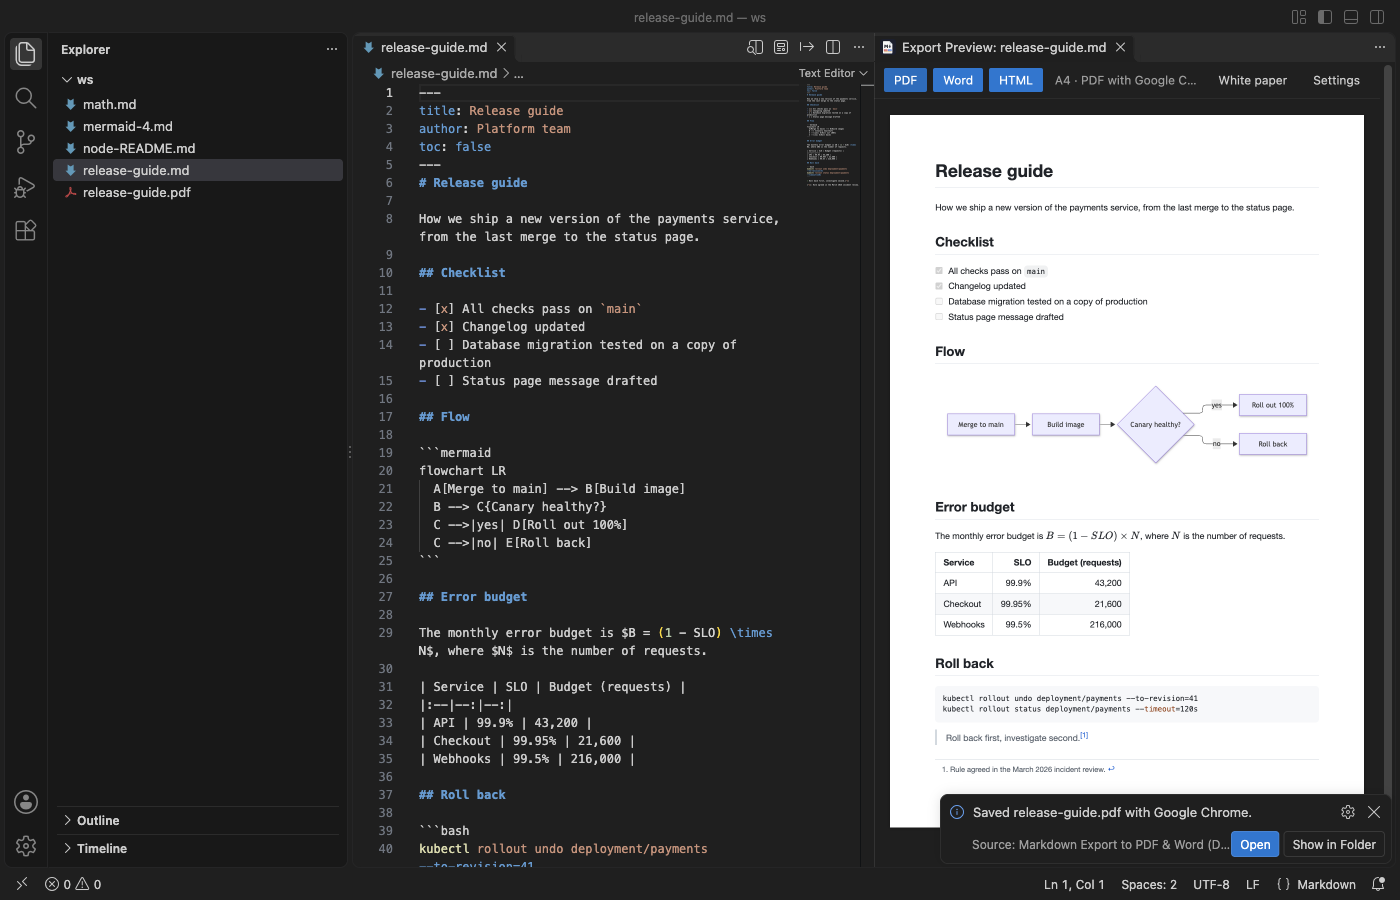
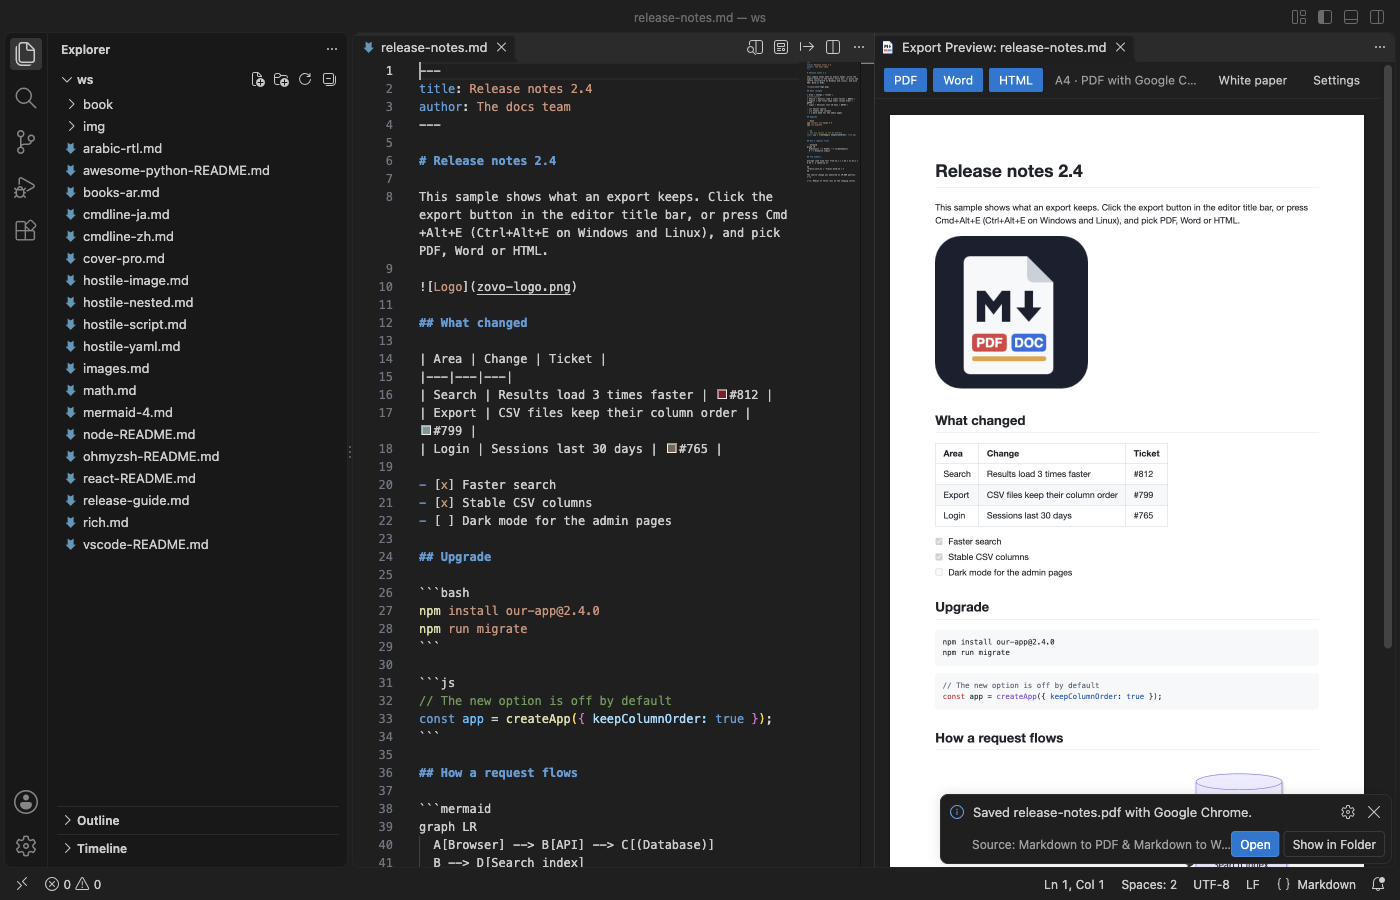
Walkthrough sample opens as a plain file (globalStorageUri may be vscode-userdata), README screenshots from the real VS Code gate, folder pick image

diff --git a/test/support/vscode-stub.js b/test/support/vscode-stub.js
@@ -10,7 +10,7 @@ const Module = require('module');
 const ROOT = path.join(__dirname, '..', '..');
 const PKG = JSON.parse(fs.readFileSync(path.join(ROOT, 'package.json'), 'utf8'));
 
-function create({ workspace } = {}) {
+function create({ workspace, storageScheme = 'file' } = {}) {
   const log = { info: [], warn: [], error: [], status: [], opened: [], external: [], commands: [], progress: [], quick: [] };
   const ui = { open: [], save: [], input: [], quick: [], info: [], warn: [] };
   const commands = new Map();
@@ -77,7 +77,7 @@ function create({ workspace } = {}) {
       showInformationMessage: msg('info'), showWarningMessage: msg('warn'), showErrorMessage: msg('error'),
       setStatusBarMessage: (t) => { log.status.push(t); return { dispose() {} }; },
       showOpenDialog: async () => nextOf(ui.open, undefined),
-      showSaveDialog: async () => nextOf(ui.save, undefined),
+      showSaveDialog: async () => { log.saveDialogs = (log.saveDialogs || 0) + 1; return nextOf(ui.save, undefined); },
       showInputBox: async () => nextOf(ui.input, undefined),
       showQuickPick: async (items, opts) => { const list = await items; log.quick.push({ items: list, opts }); const f = nextOf(ui.quick, undefined); return typeof f === 'function' ? f(list) : f; },
       showTextDocument: async (d) => { log.opened.push(d); return {}; },
@@ -100,7 +100,7 @@ function create({ workspace } = {}) {
     extensionUri: Uri.file(ROOT),
     extensionPath: ROOT,
     extension: { id: 'zovo.zovo-markdown-export', packageJSON: PKG },
-    globalStorageUri: Uri.file(gs),
+    globalStorageUri: storageScheme === 'file' ? Uri.file(gs) : new Uri(storageScheme, gs),
     globalState: { get: (k, d) => (state.has(k) ? state.get(k) : d), update: async (k, v) => { state.set(k, v); }, keys: () => [...state.keys()], setKeysForSync() {} },
     workspaceState: { get: (k, d) => d, update: async () => {} },
     secrets: { get: async (k) => secrets.get(k), store: async (k, v) => { secrets.set(k, v); }, delete: async (k) => { secrets.delete(k); }, onDidChange: noop },

diff --git a/src/extension.js b/src/extension.js
@@ -492,13 +492,11 @@ function showPreview(arg) {
 // The bundled sample is copied to the extension's own storage folder, so exports land next to it there and never in
 // the extension folder. Exports of this copy do not count for the rating ask (rate.js skips globalStorageUri).
 async function openSample() {
-  const srcDir = vscode.Uri.joinPath(ctx.extensionUri, 'walkthrough', 'sample');
-  const dst = vscode.Uri.joinPath(ctx.globalStorageUri, 'sample');
-  await vscode.workspace.fs.createDirectory(dst);
-  for (const name of ['release-notes.md', 'zovo-logo.png']) {
-    await vscode.workspace.fs.copy(vscode.Uri.joinPath(srcDir, name), vscode.Uri.joinPath(dst, name), { overwrite: true });
-  }
-  const doc = await vscode.workspace.openTextDocument(vscode.Uri.joinPath(dst, 'release-notes.md'));
+  // globalStorageUri can use the vscode-userdata scheme; exports need a plain file path, so use its path on disk.
+  const dst = path.join(ctx.globalStorageUri.fsPath, 'sample');
+  fs.mkdirSync(dst, { recursive: true });
+  for (const name of ['release-notes.md', 'zovo-logo.png']) fs.copyFileSync(path.join(ctx.extensionPath, 'walkthrough', 'sample', name), path.join(dst, name));
+  const doc = await vscode.workspace.openTextDocument(vscode.Uri.file(path.join(dst, 'release-notes.md')));
   await vscode.window.showTextDocument(doc, { preview: false });
 }
 

diff --git a/test/pro-flow.test.js b/test/pro-flow.test.js
@@ -193,3 +193,19 @@ test('walkthrough sample: copied to the extension storage and opened; exports la
     assert.equal(s.log.error.length, 0);
   } finally { s.restore(); }
 });
+
+test('walkthrough sample with a vscode-userdata storage URI: opened as a plain file, so exports need no save dialog', async () => {
+  const { loadExtension: load } = require('./support/vscode-stub');
+  const s = load({ workspace: ws, storageScheme: 'vscode-userdata' });
+  s.config.askForRating = false; s.config.pdfEngine = 'builtin';
+  s.ext.activate(s.context);
+  try {
+    await cmd(s, 'openSample');
+    const doc = s.log.opened[0];
+    assert.equal(doc.uri.scheme, 'file');
+    s.vscode.window.activeTextEditor = { document: doc, selection: { isEmpty: true } };
+    await cmd(s, 'exportPdf');
+    assert.ok(fs.existsSync(path.join(s.gs, 'sample', 'release-notes.pdf')));
+    assert.equal(s.log.saveDialogs, undefined, 'no save dialog');
+  } finally { s.restore(); }
+});

diff --git a/README.md b/README.md
@@ -2,7 +2,7 @@
 
 Markdown to PDF, Markdown to Word (.docx) and Markdown to HTML, right in VS Code. PDFs are printed by the Chrome, Edge or Brave already on your computer, so there is nothing to download. Free, no sign-in, works offline.
 
-![A release guide open in VS Code with the Export Preview beside it and the message "Saved release-guide.pdf with Google Chrome."](images/hero.png)
+![The walkthrough sample open in VS Code with the Export Preview beside it and the message "Saved release-notes.pdf with Google Chrome."](images/hero.png)
 
 - Nothing to download. No Chromium, no setup. Without a browser, a built-in engine still makes the PDF.
 - Word that behaves like Word. Headings use Word's own Heading 1 to 6 styles, so the Navigation pane and Word's table of contents work. Real numbered lists, tables, footnotes and code with colours.
@@ -14,6 +14,8 @@ Markdown to PDF, Markdown to Word (.docx) and Markdown to HTML, right in VS Code
 Open a Markdown file and click the export button in the editor title bar, or press `Cmd+Alt+E` (macOS) or `Ctrl+Alt+E`. Pick PDF, Word (DOCX), HTML or all three. The file is saved next to the Markdown file.
 
 You can also right-click a Markdown file in the Explorer (Markdown Export menu), select several files, right-click a folder (Export Every Markdown File in a Folder), or select text and choose Export Selection. From the Command Palette, the folder export lists your workspace folders and every folder that holds Markdown files, so you do not have to browse for it.
+
+![The folder list of Merge a Folder into One PDF: the workspace folder, a book folder with 3 Markdown files, and Choose another folder](images/folder-pick.png)
 
 New to it? Get Started (in the Command Palette: Markdown Export: Get Started) opens a sample with a table, code, a formula and a Mermaid diagram to try the export on.
 
@@ -71,7 +73,7 @@ The most-installed Markdown PDF extension has 4.3 million installs. Its users re
 
 | Reported problem | Links | Here |
 |---|---|---|
-| It downloads Chromium before the first PDF ("hundreds of megabytes for a simple pdf converter"). Chrome for Testing 157 is 197 to 211 MB per download. | [review, Feb 2026](https://marketplace.visualstudio.com/items?itemName=yzane.markdown-pdf&ssr=false#review-details), [#80 Failed to download Chromium](https://github.com/yzane/vscode-markdown-pdf/issues/80), [#441 download behind a proxy](https://github.com/yzane/vscode-markdown-pdf/issues/441), [#445 incomplete download](https://github.com/yzane/vscode-markdown-pdf/issues/445) | Downloads nothing. The whole extension is a 3.4 MB download. |
+| It downloads Chromium before the first PDF ("hundreds of megabytes for a simple pdf converter"). Chrome for Testing 157 is 197 to 211 MB per download. | [review, Feb 2026](https://marketplace.visualstudio.com/items?itemName=yzane.markdown-pdf&ssr=false#review-details), [#80 Failed to download Chromium](https://github.com/yzane/vscode-markdown-pdf/issues/80), [#441 download behind a proxy](https://github.com/yzane/vscode-markdown-pdf/issues/441), [#445 incomplete download](https://github.com/yzane/vscode-markdown-pdf/issues/445) | Downloads nothing. The whole extension is a 4 MB download. |
 | "Failed to launch the browser process", so no PDF at all. | [#436](https://github.com/yzane/vscode-markdown-pdf/issues/436), [#451](https://github.com/yzane/vscode-markdown-pdf/issues/451), [#461](https://github.com/yzane/vscode-markdown-pdf/issues/461), [review, Jun 2026](https://marketplace.visualstudio.com/items?itemName=yzane.markdown-pdf&ssr=false#review-details) | Uses your installed browser with a fresh profile. If it cannot start, the built-in engine makes the PDF and the message says so. |
 | "Silently fails." | [review, May 2026](https://marketplace.visualstudio.com/items?itemName=yzane.markdown-pdf&ssr=false#review-details) | Every export ends with a message: the saved file, or what went wrong. Details go to the Markdown Export output panel. |
 | No Word export. | [#439](https://github.com/yzane/vscode-markdown-pdf/issues/439) | Word (.docx) with real Word styles. |
